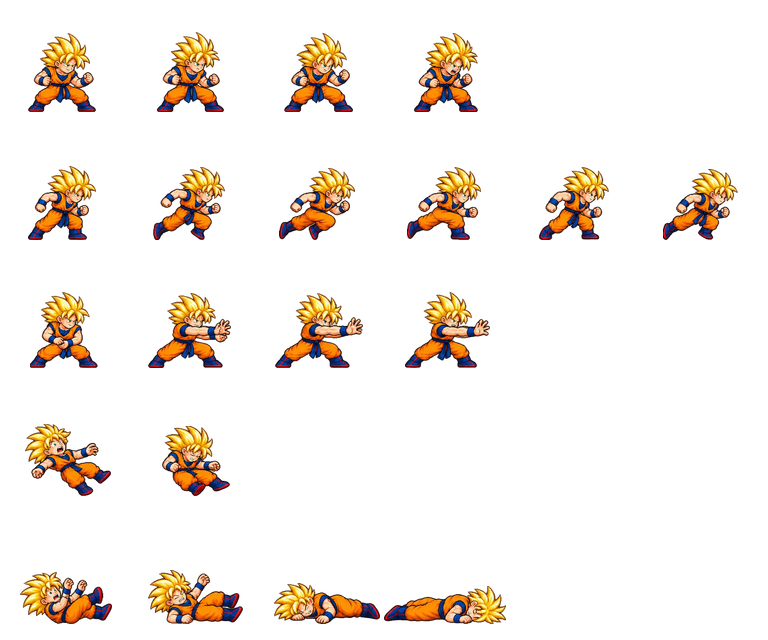
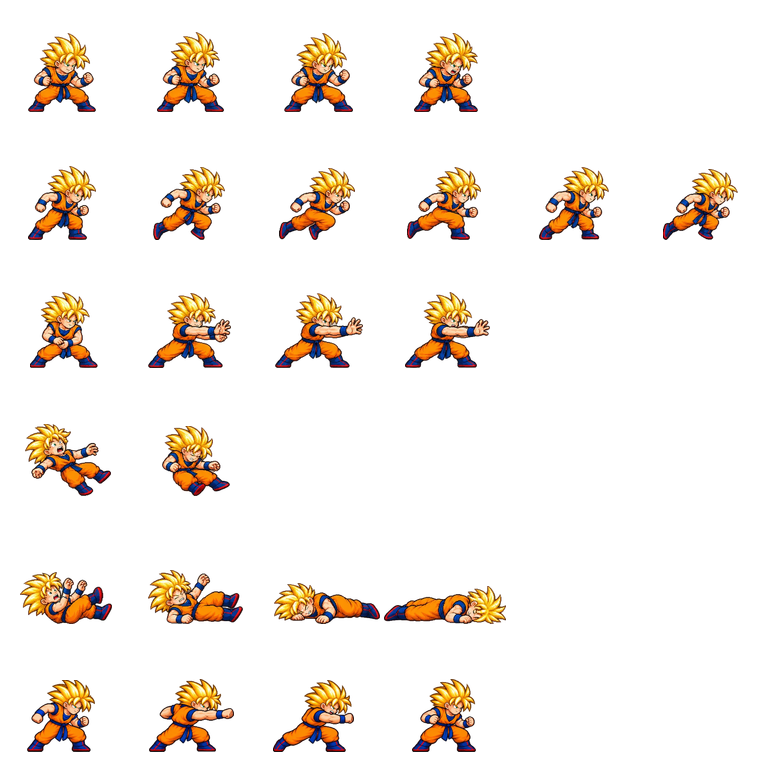
Add Goku attack rows; --attack sizes the new row to the existing idle sprite
Matching the existing sheet's measured idle height instead of re-deriving a scale made the attack
rows come out larger than the rest of the sheet. Gojo's row re-imported with the fix.

diff --git a/tools/import-sheet.ts b/tools/import-sheet.ts
@@ -16,7 +16,7 @@
  * Sheets with 4 rows (hit and ko merged) or 5 rows (no attack) are accepted too.
  *
  * --attack mode: for a fighter whose sheet already exists. The image has two rows: row 1 is the idle stance
- * (only used to match the scale of the existing sheet), row 2 is the attack swing. Only the attack row is
+ * (only used to size the new row to the existing sheet's idle sprite), row 2 is the attack swing. Only the attack row is
  * added; everything else in the sheet is kept.
  */
 import { copyFileSync, existsSync, mkdirSync, readFileSync, renameSync, writeFileSync } from 'node:fs';
@@ -204,6 +204,27 @@ function toRows(sprites: Box[]): Box[][] {
   return rows.sort((a, b) => a.top - b.top).map((r) => r.items.sort((a, b) => a.left - b.left));
 }
 
+/** Median height of the opaque part of the first `frames` cells of the top row of an imported sheet. */
+async function measureIdleHeight(sheetPath: string, cell: number, frames: number): Promise<number> {
+  const { data, info } = await sharp(sheetPath).ensureAlpha().raw().toBuffer({ resolveWithObject: true });
+  const heights: number[] = [];
+  for (let c = 0; c < frames; c++) {
+    let top = cell;
+    let bottom = -1;
+    for (let y = 0; y < cell; y++) {
+      for (let x = c * cell; x < (c + 1) * cell; x++) {
+        if (data[(y * info.width + x) * 4 + 3] >= ALPHA_CUTOFF) {
+          top = Math.min(top, y);
+          bottom = Math.max(bottom, y);
+        }
+      }
+    }
+    if (bottom >= top) heights.push(bottom - top + 1);
+  }
+  heights.sort((a, b) => a - b);
+  return heights[Math.floor(heights.length / 2)] ?? cell * CHARACTER_HEIGHT;
+}
+
 async function main(): Promise<void> {
   const args = parseArgs(process.argv.slice(2));
   const { input, id, form, attack: attackOnly, copyTo } = args;
@@ -216,6 +237,8 @@ async function main(): Promise<void> {
   const dir = join(import.meta.dirname, '..', 'public', 'assets', 'fighters', id, ...(form ? ['form'] : []));
   const ATTACK_ROW = ANIMS.indexOf('attack');
   let existing: SheetConfig = {};
+  /** --attack: how tall the existing sheet's idle sprite is, in cell pixels, so the new row matches it. */
+  let matchHeight: number | undefined;
   if (attackOnly) {
     if (!existsSync(join(dir, 'sheet.png')) || !existsSync(join(dir, 'sheet.json'))) {
       console.error(`--attack adds a row to an existing sheet, but there is none at ${dir}. Import the full sheet first.`);
@@ -223,6 +246,7 @@ async function main(): Promise<void> {
     }
     existing = JSON.parse(readFileSync(join(dir, 'sheet.json'), 'utf8')) as SheetConfig;
     cell = existing.frameWidth ?? cell;
+    matchHeight = await measureIdleHeight(join(dir, 'sheet.png'), cell, existing.frames?.idle ?? 1);
   }
 
   const { data, info } = await sharp(input).ensureAlpha().raw().toBuffer({ resolveWithObject: true });
@@ -251,7 +275,7 @@ async function main(): Promise<void> {
 
   // One scale for every frame, from the median standing (idle) height, so size never jumps between frames.
   const idleHeights = rows[0].map(height).sort((a, b) => a - b);
-  let scale = (cell * CHARACTER_HEIGHT) / idleHeights[Math.floor(idleHeights.length / 2)];
+  let scale = (matchHeight ?? cell * CHARACTER_HEIGHT) / idleHeights[Math.floor(idleHeights.length / 2)];
   const widest = Math.max(...sprites.map(width));
   const tallest = Math.max(...sprites.map(height));
   scale = Math.min(scale, (cell * 0.95) / widest, (cell * FEET) / tallest);
